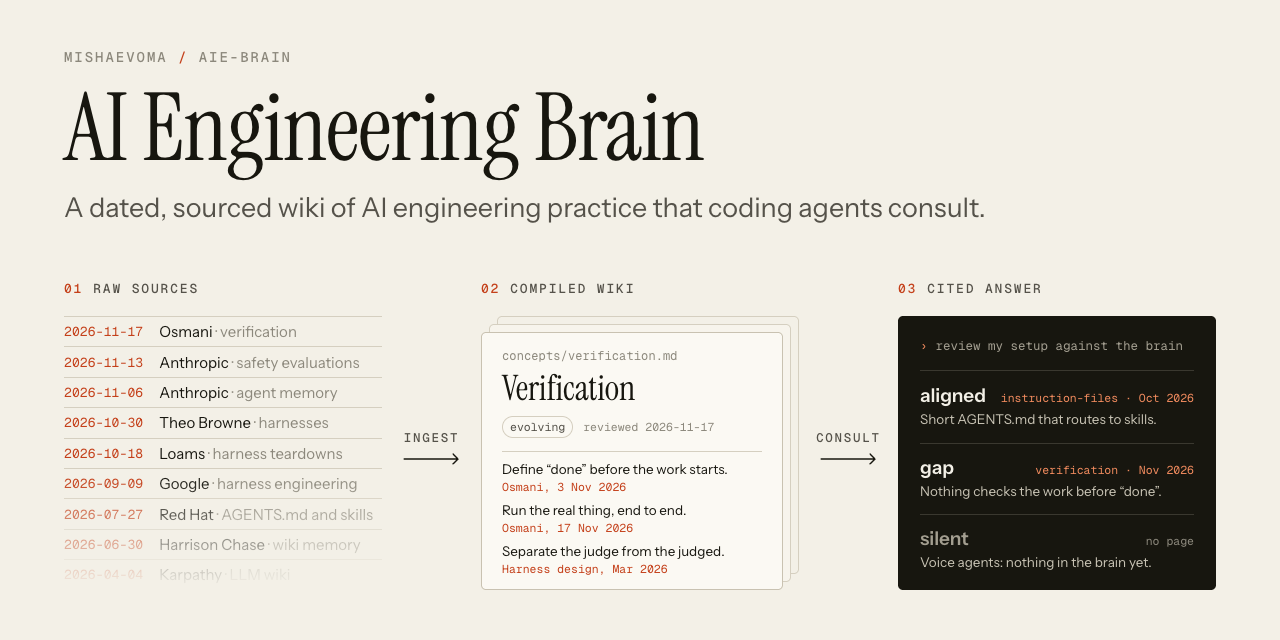
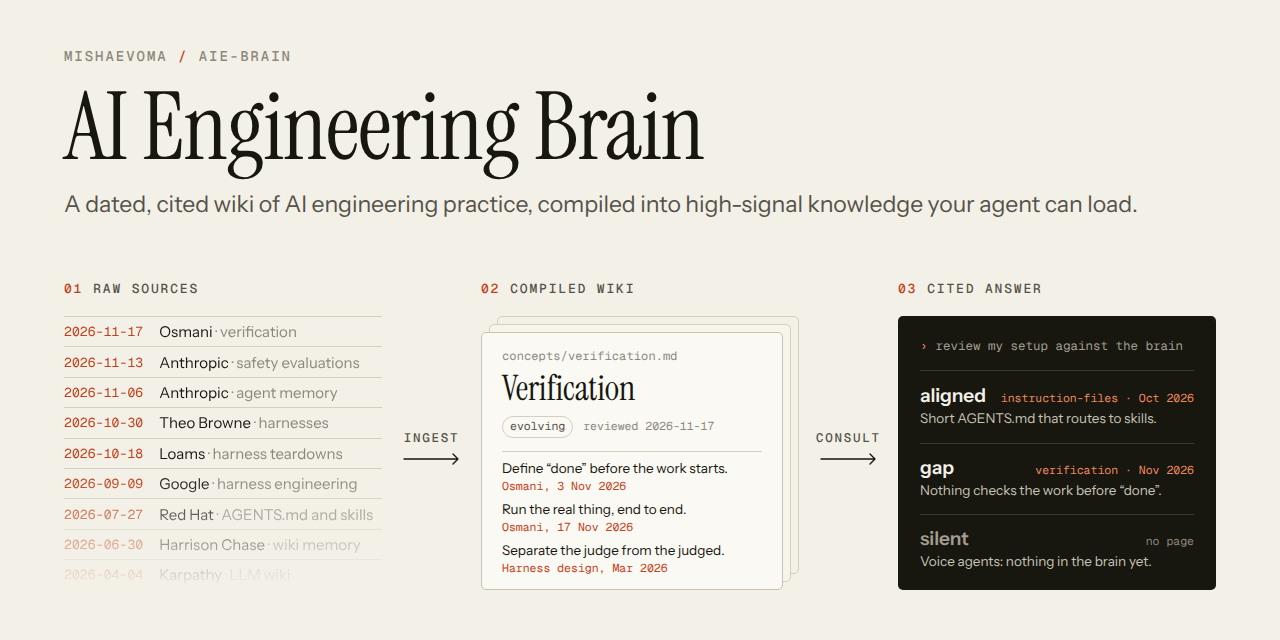
Rewrite the README opener and align the public tagline.
Lead with the new one-line description, and use that line in the schema, the llms.txt header, and the social card.

diff --git a/.github/social-preview.html b/.github/social-preview.html
@@ -60,9 +60,10 @@
   }
   .tagline {
     margin-top: 16px;
-    font: 400 27px/1.3 var(--sans);
+    font: 400 23px/1.3 var(--sans);
     letter-spacing: -0.003em;
     color: var(--ink-2);
+    white-space: nowrap;
   }
 
   /* ---------- the three stages ---------- */
@@ -149,7 +150,7 @@
 <header>
   <div class="repo">mishaevoma <b>/</b> aie-brain</div>
   <h1>AI Engineering Brain</h1>
-  <p class="tagline">A dated, sourced wiki of AI engineering practice that coding agents consult.</p>
+  <p class="tagline">A dated, cited wiki of AI engineering practice, compiled into high-signal knowledge your agent can load.</p>
 </header>
 
 <div class="flow">

diff --git a/site/agentfiles.py b/site/agentfiles.py
@@ -17,8 +17,8 @@ import shutil
 import sys
 
 SUMMARY = (
-    "A wiki of current practice for building AI products, written and maintained by AI agents "
-    "and read by both agents and people. Every link below returns raw markdown."
+    "A dated, cited wiki of AI engineering practice, compiled into high-signal knowledge "
+    "your agent can load. Every link below returns raw markdown."
 )
 # What goes into llms-full.txt, in reading order. Source notes stay out: they are long and one click away.
 FULL_FILES = ["overview.md", "glossary.md"]

diff --git a/README.md b/README.md
@@ -1,6 +1,6 @@
 # AI Engineering Brain
 
-Does your coding agent run the right tests? Could your AI worker email a customer twice on retry? The brain is a wiki your agent uses to answer questions like these. It traces a workflow through your project, compares the code with dated engineering sources, and gives you a recommendation you can verify.
+A dated, cited wiki of AI engineering practice, compiled into high-signal knowledge your agent can load. It is a compounding, agent-maintained wiki in the Karpathy LLM-wiki pattern: immutable dated sources, cited playbooks, and a freshness linter that flags stale or unbacked claims. Your agent reviews a project against that evidence and returns findings you can verify. A green test run that tested nothing is the kind of miss it catches.
 
 ## Get your first review
 

diff --git a/AGENTS.md b/AGENTS.md
@@ -1,6 +1,6 @@
 # AI Engineering Brain
 
-A wiki of current practice for building AI products. Agents write and maintain it. The owner and their agents read it.
+A dated, cited wiki of AI engineering practice, compiled into high-signal knowledge your agent can load. Agents write and maintain it. The owner and their agents read it.
 
 ## Mission
 
